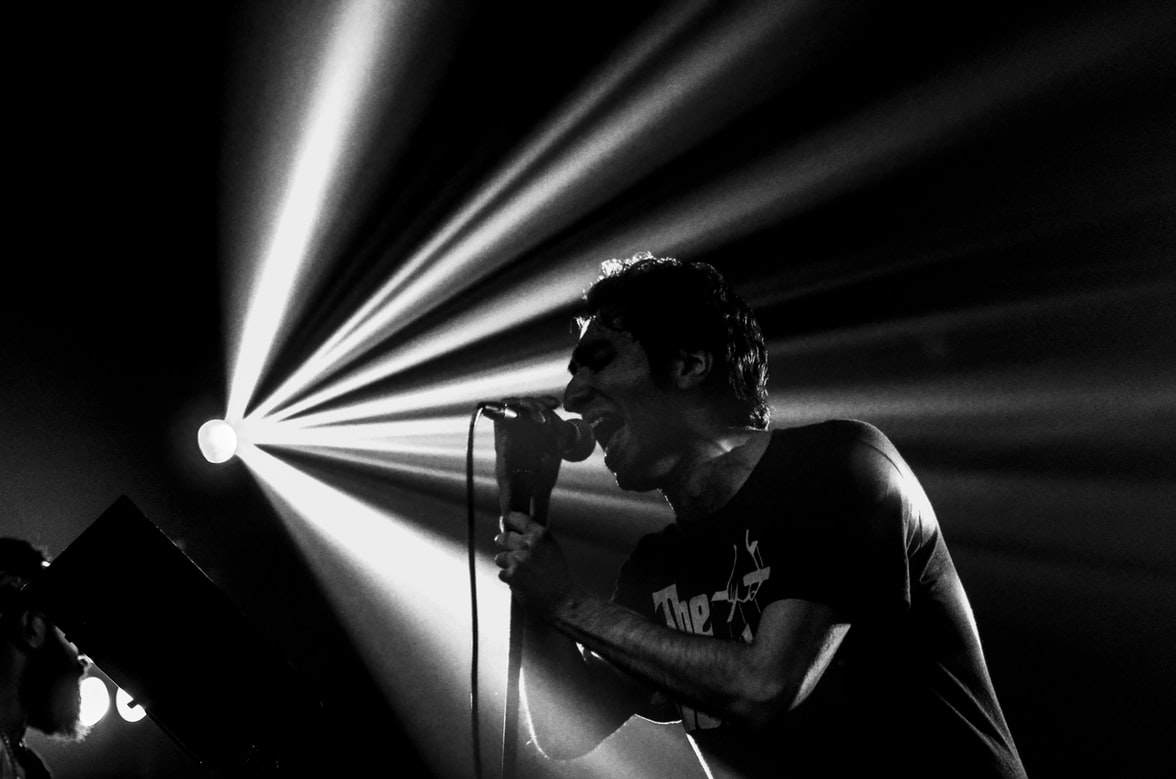
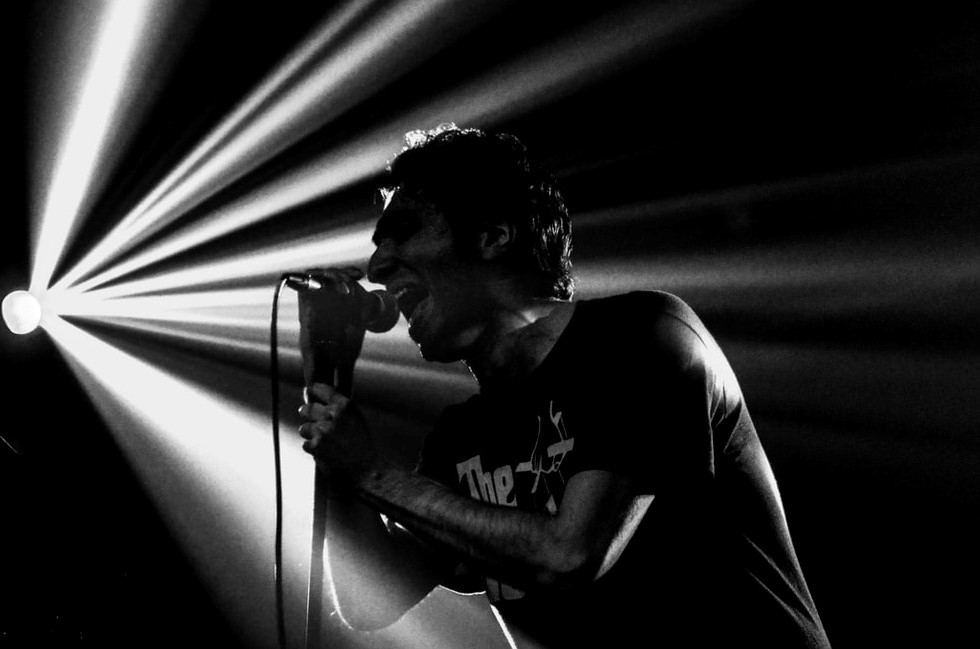
fixed images on index.html

diff --git a/views/index.html b/views/index.html
@@ -39,8 +39,8 @@
             system automatically filters unwanted noise generated by not-so-well
             compressed files. AI, ladies and gentlemen!
           </p>
-          <div class="div-main-box-image-1"></div>
-          <!-- <img class="main-image-grid" src="/img-grid (11).jpg" /> -->
+          <!-- <div class="div-main-box-image-1"></div> -->
+          <img class="main-image-grid" src="/img-grid (11).jpg" />
         </div>
         <div class="container-grid-main">
           <h3 class="grids-titles">Try before buying</h3>
@@ -50,8 +50,8 @@
             will be able to select which samples they want to make available to
             try. And, yes, they can choose as much as they want. ;)
           </p>
-          <div class="div-main-box-image-2"></div>
-          <!-- <img class="main-image-grid" src="/img-grid (12).jpg" /> -->
+          <!-- <div class="div-main-box-image-2"></div> -->
+          <img class="main-image-grid" src="/img-grid (12).jpg" />
         </div>
         <div class="container-grid-main">
           <h3 class="grids-titles">Search. Tag. Keep. Repeat.</h3>
@@ -60,8 +60,8 @@
             guitar loops. You call it. Tag any kit or sample you need and you
             can buy it individually. Cool, huh?
           </p>
-          <div class="div-main-box-image-3"></div>
-          <!-- <img class="main-image-grid" src="/img-grid (10).jpg" /> -->
+          <!-- <div class="div-main-box-image-3"></div> -->
+          <img class="main-image-grid" src="/img-grid (10).jpg" />
         </div>
       </section>
       <section class="section-middle-grid">
@@ -71,8 +71,8 @@
             Be your own super-producer. Join us and be part of the Musify
             family. Sharing is caring, is what they say. Are you ready?
           </p>
-          <div class="div-main-box-image-4"></div>
-          <!-- <img class="main-image-grid" src="/img-studio.jpg" /> -->
+          <!-- <div class="div-main-box-image-4"></div> -->
+          <img class="main-image-grid" src="/img-studio.jpg" />
         </div>
       </section>
       <section class="section-home-commends">

diff --git a/public/css/styles.css b/public/css/styles.css
@@ -154,8 +154,10 @@ img {
   max-width: 100%;
 }
 
-/* .main-image-grid {
-} */
+.main-image-grid {
+  width: 339px;
+  height: 226px;
+}
 
 .main-image-grid:hover {
   box-shadow: 0 0 11px rgba(33, 33, 33, 0.2);
